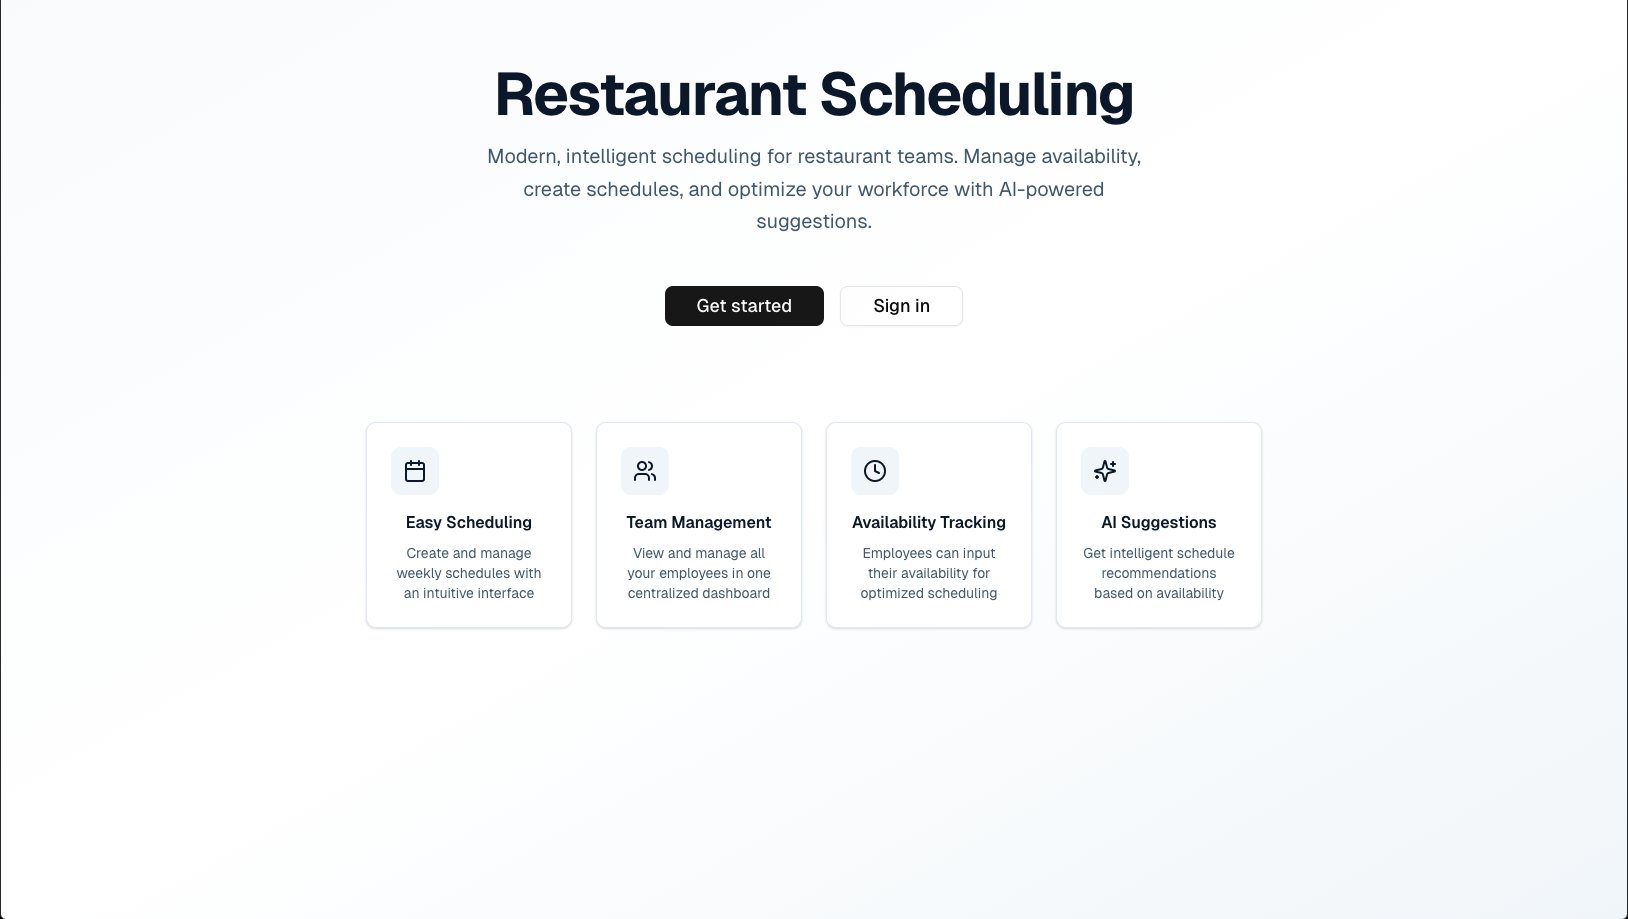
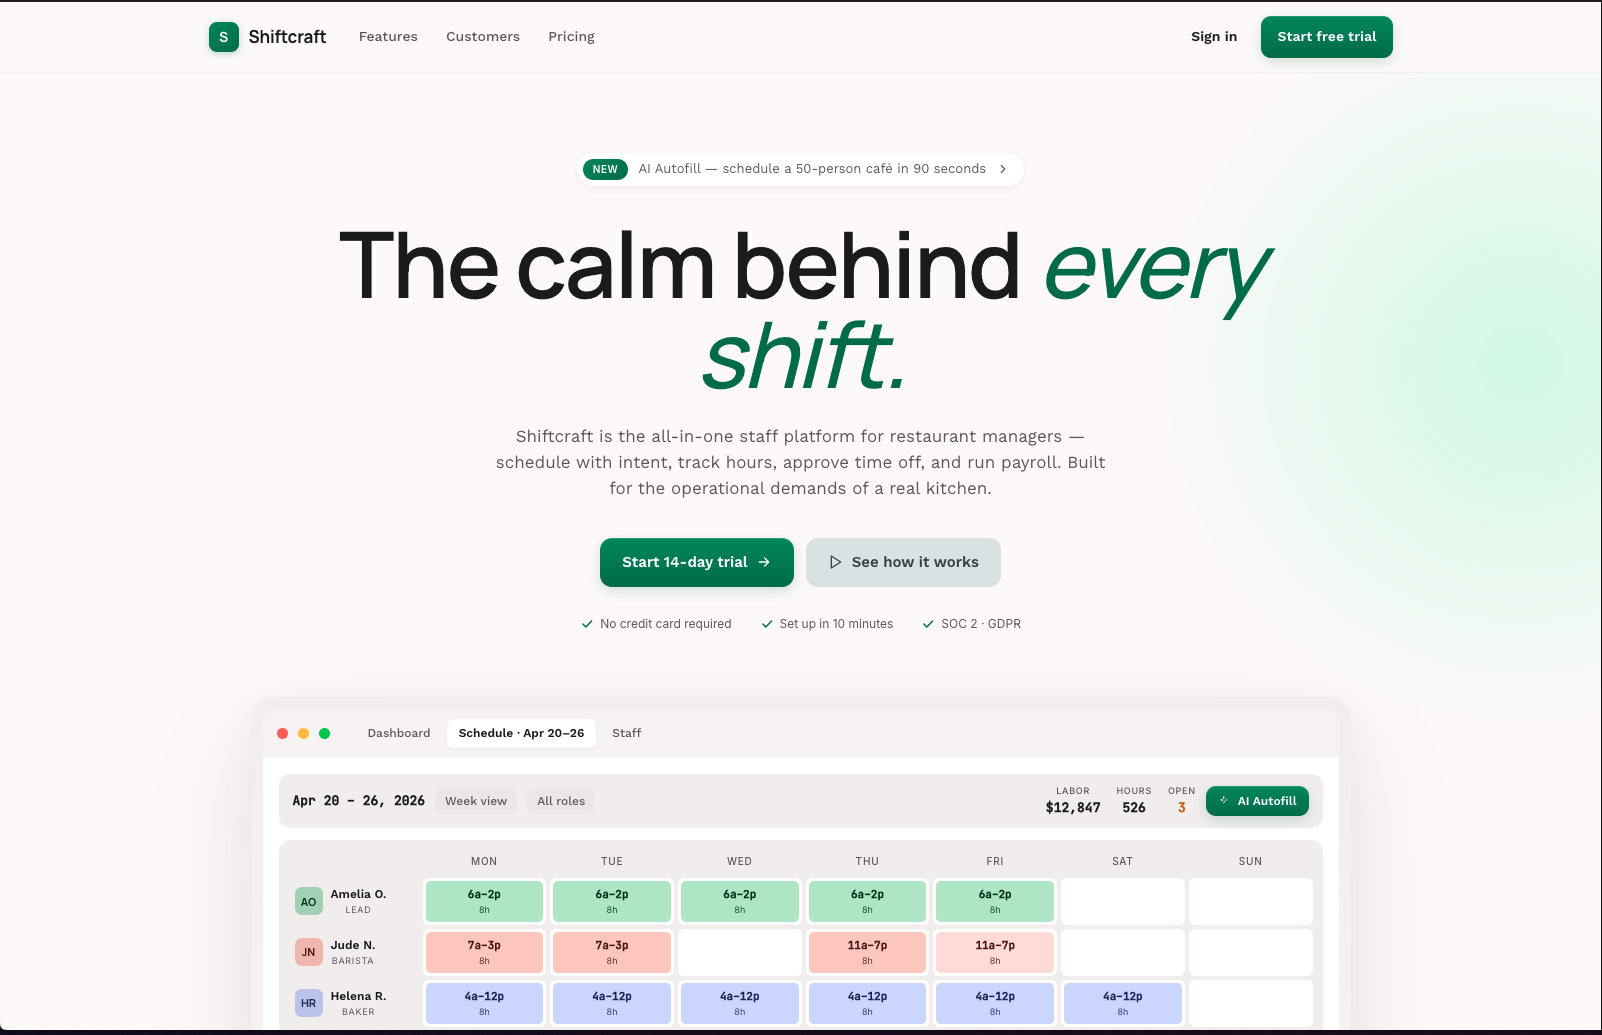
updated shiftcraft project

diff --git a/src/sections/works/_constants/works.ts b/src/sections/works/_constants/works.ts
@@ -18,7 +18,7 @@ export const works: WorksItem[] = [
     "image": "/shiftcraft.png",
     "title": "Restaurant Scheduling App",
     "description": "A clean, intuitive staff scheduling tool designed for restaurants. Includes weekly and monthly views, role assignments, shift management, and a responsive interface built for real-world operational workflows.",
-    "link": "https://example.com/scheduling-app",
+    "link": "https://shiftcraft-6apf.vercel.app/",
 	"color": "#000"
   },
   {
